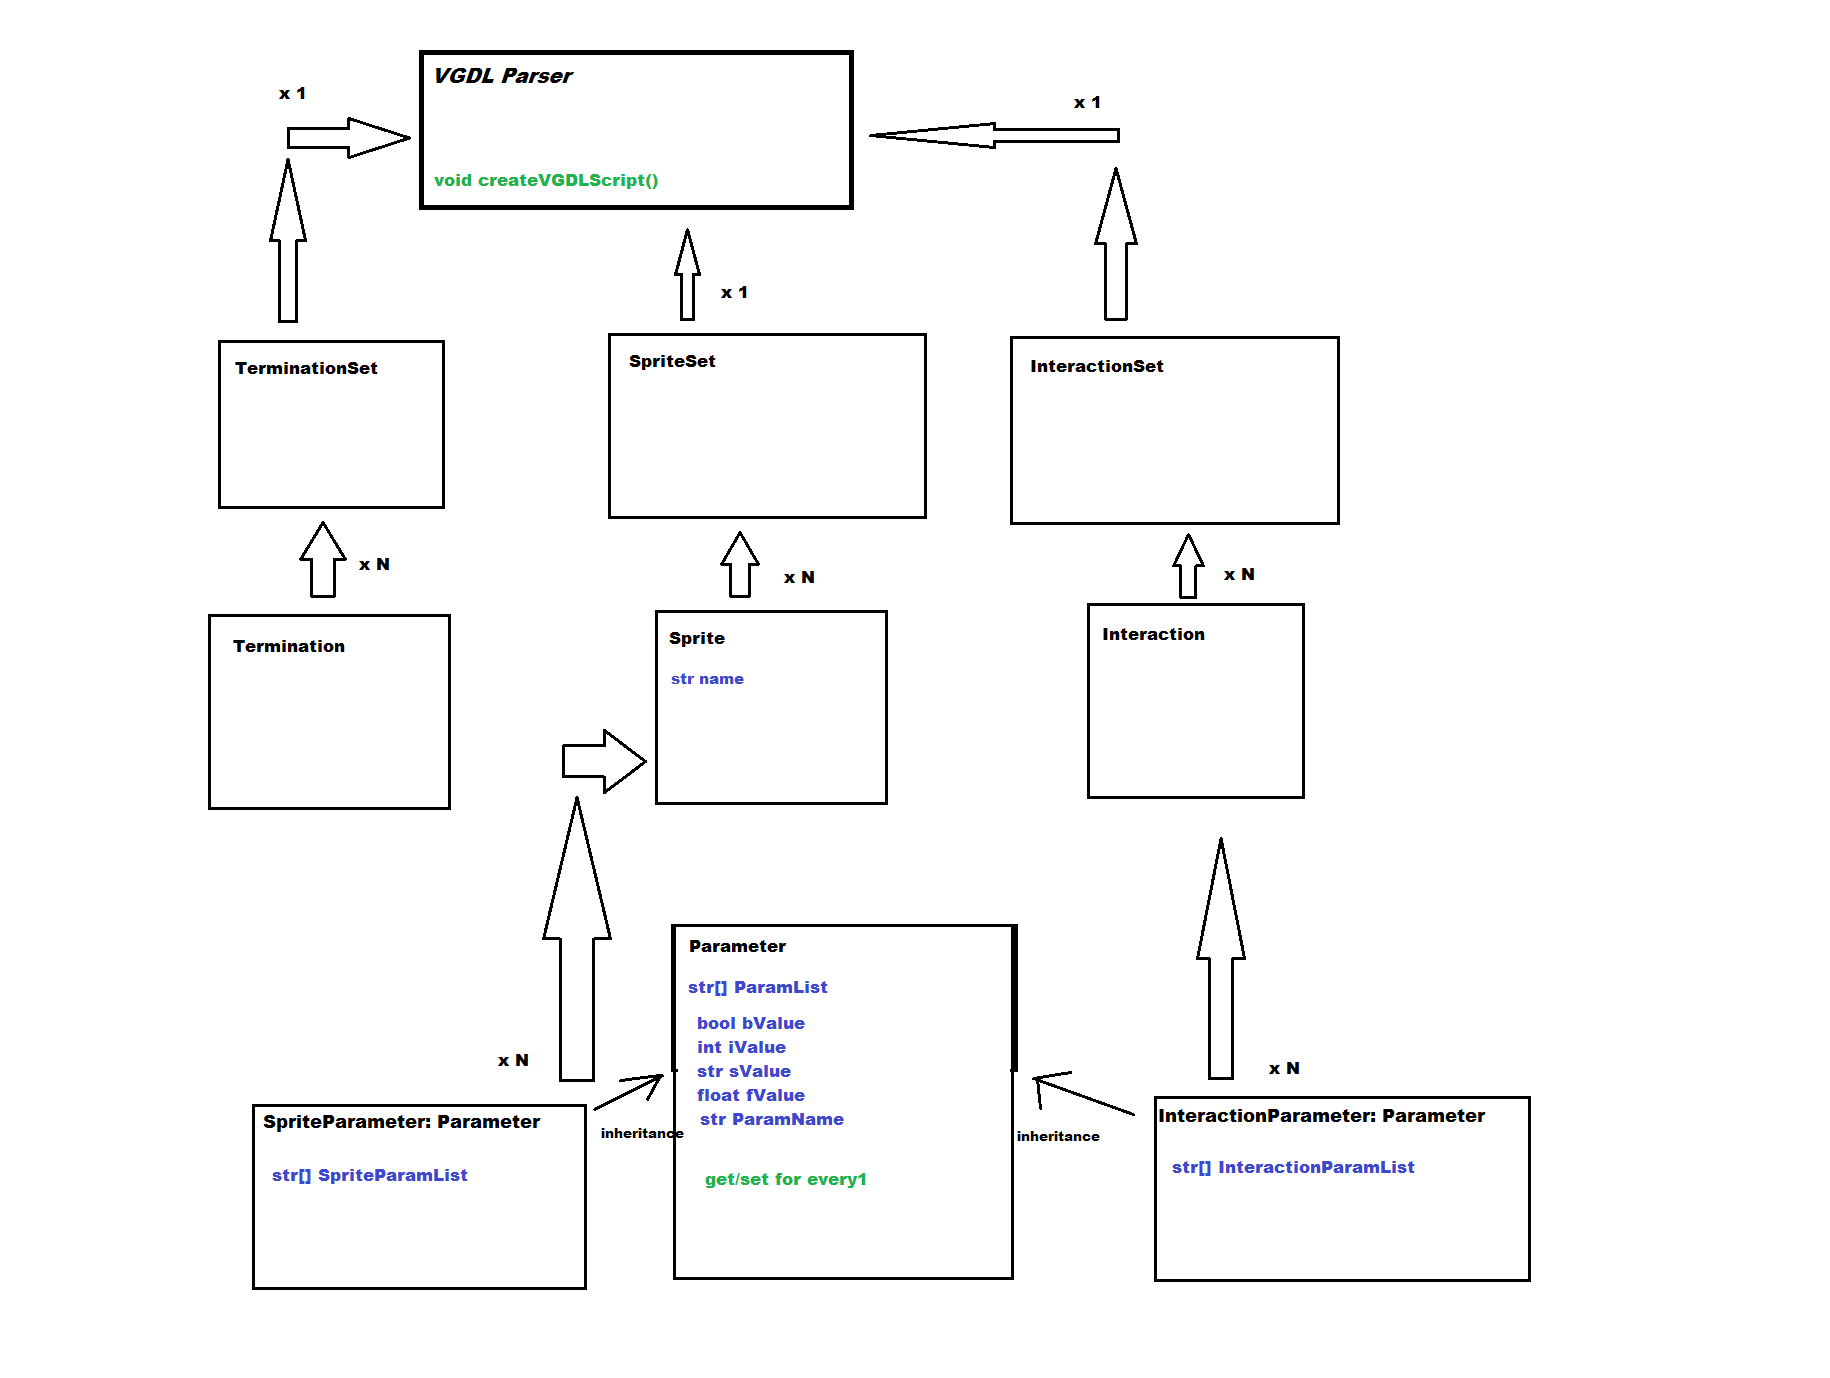
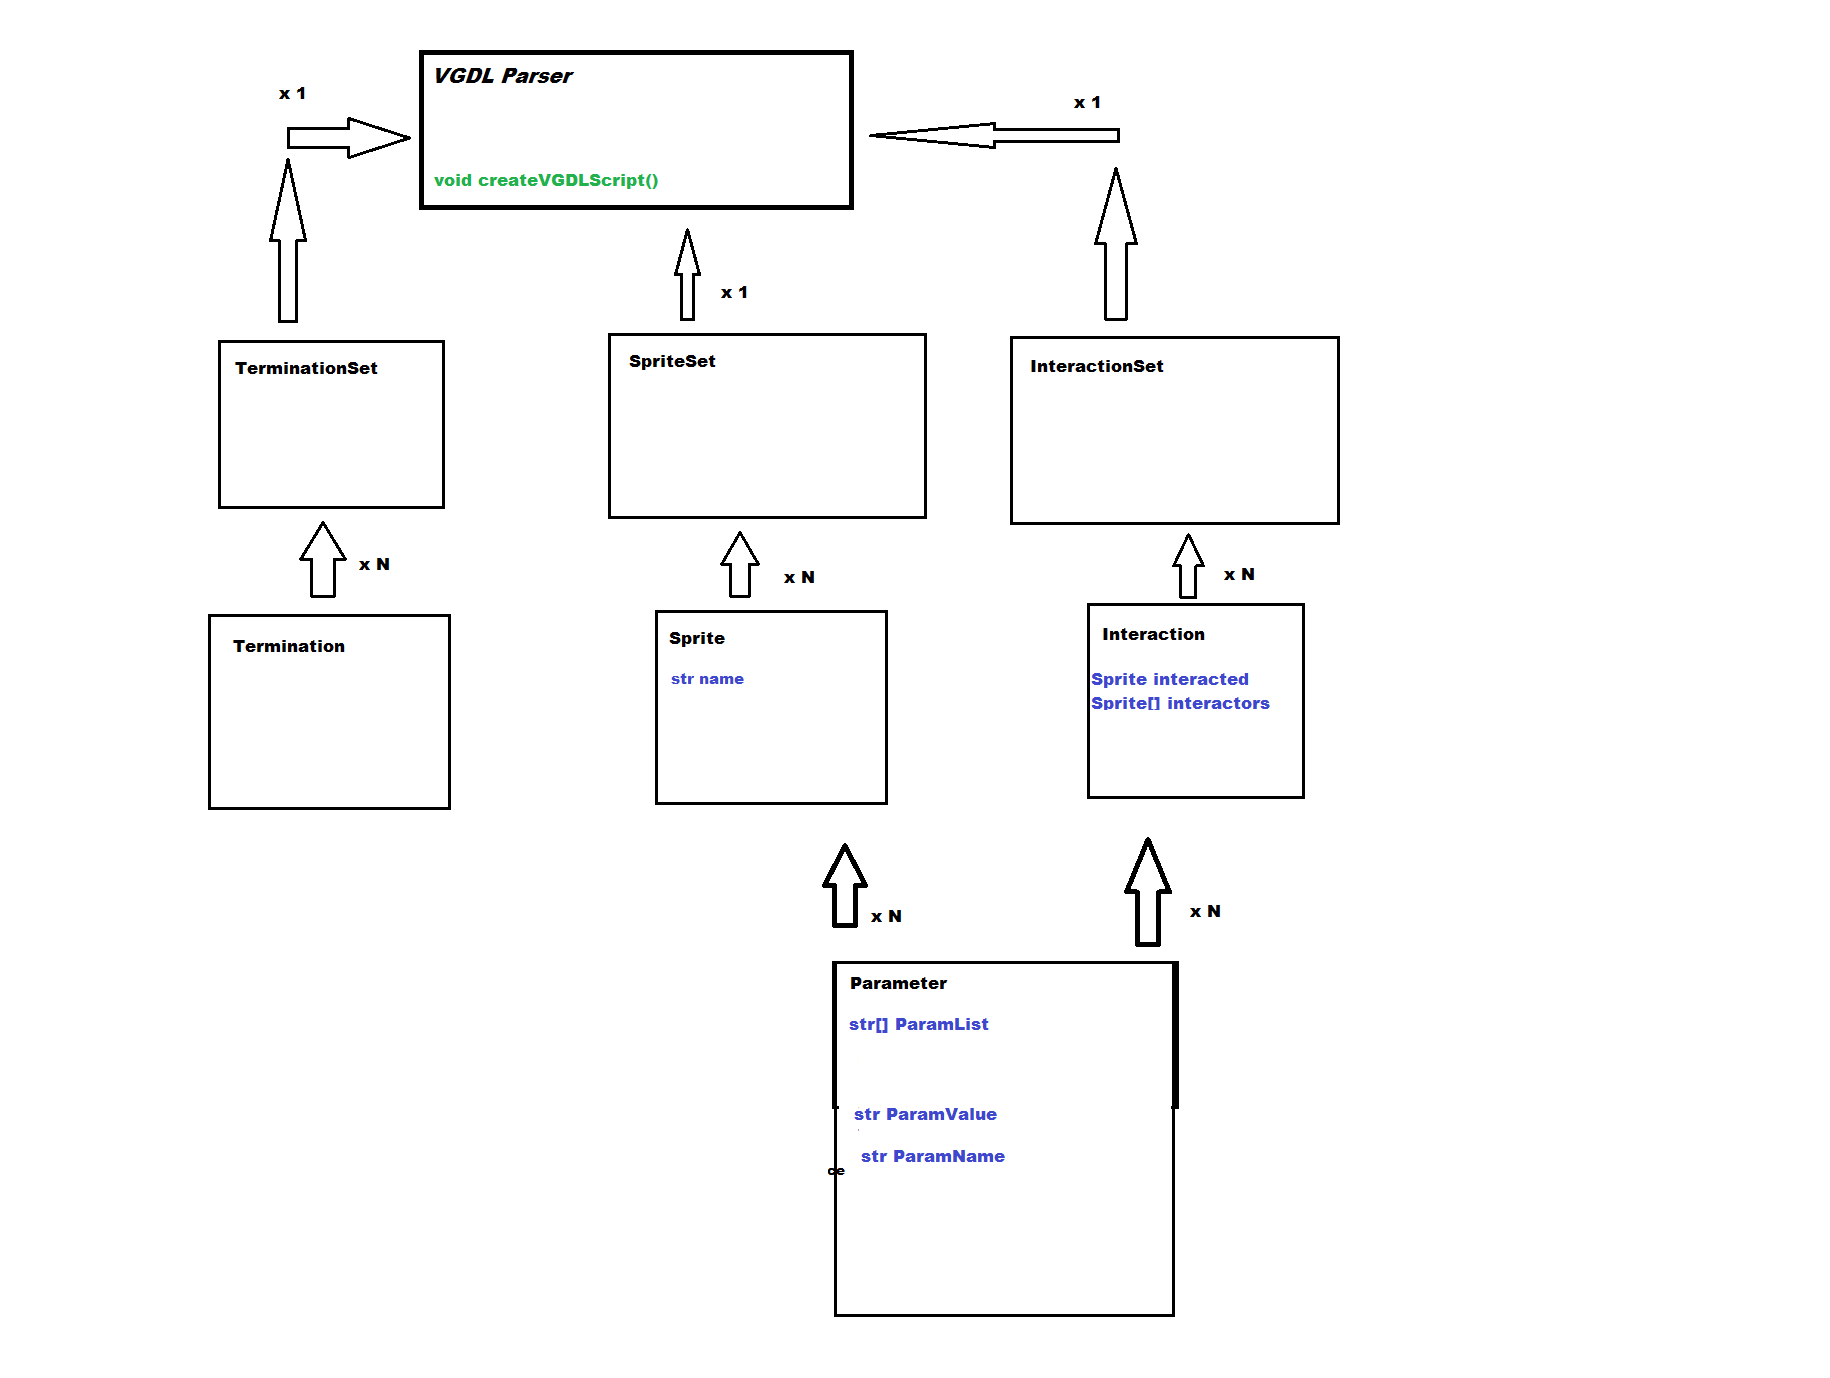
filled a little more the base classes
and added a breakdown of VGDL parameters and interaction types in a text
file

diff --git a/src/Sprite.cpp b/src/Sprite.cpp
@@ -20,7 +20,7 @@ Sprite::Sprite(std::string newName, std::string stype, bool hasParent = false, s
 	this->parent = parent;
 }
 
-Sprite::Sprite(std::string newName, std::string stype, std::vector<SpriteParameter> paramList, bool hasParent = false, std::string parent = "null")
+Sprite::Sprite(std::string newName, std::string stype, std::vector<Parameter> paramList, bool hasParent = false, std::string parent = "null")
 {
 	name = newName;
 	spriteType = stype;
@@ -54,13 +54,28 @@ void Sprite::setSpriteType(std::string newstype)
 	spriteType = newstype;
 }
 
-std::vector<SpriteParameter> Sprite::getSpriteParameters()
+std::vector<Parameter> Sprite::getSpriteParameters()
 {
 	return parameterList;
 }
 
-void Sprite::addParameter(SpriteParameter newParameter)
+void Sprite::addParameter(Parameter newParameter)
 {
 	parameterList.push_back(newParameter);
+}
+
+std::string Sprite::getParent()
+{
+	return parent;
+}
+
+void Sprite::setParent(std::string newParent)
+{
+	parent = newParent;
+}
+
+bool Sprite::spriteHasParent()
+{
+	return hasParent;
 }
 

diff --git a/src/Parameter.h b/src/Parameter.h
@@ -1,20 +1,21 @@
 #pragma once
 #include <string>
 
+//Generic parameter, can be used by any class. The paramaters it can be depends on the class that's calling them(Sprite, Interaction or Termination).
+
 class Parameter
 {
 public:
 	Parameter(std::string name, int value);
 	Parameter(std::string name, float value);
+	Parameter(std::string name, bool value);
 	Parameter(std::string name, std::string value);
 
 	~Parameter();
 
 private:
 	std::string parameterName;
-	int parameterIntValue;
-	float parameterFloatValue;
-	std::string parameterStrValue;//because the parameter may be a string, a float or an int...there has to be a better way to deal with this
-	int parameterType;//1=int, 2=float, 3=string
+	std::string parameterValue;//because the parameter may be a string, a float or an int, we simply cast them all to strings, since we'll only use them to create the script
+	int parameterType;//1=int, 2=float, 3=bool, 4=string
 };
 

diff --git a/src/Parameter.cpp b/src/Parameter.cpp
@@ -1,5 +1,5 @@
 #include "Parameter.h"
-
+#include "Manager.h"
 
 
 
@@ -7,22 +7,30 @@
 Parameter::Parameter(std::string name, int value)
 {
 	parameterName = name;
-	parameterIntValue = value;
+	parameterValue = Manager::toString(value);
 	parameterType = 1;
 }
 
 Parameter::Parameter(std::string name, float value)
 {
 	parameterName = name;
-	parameterFloatValue = value;
+	parameterValue = Manager::toString(value);
 	parameterType = 2;
+}
+
+Parameter::Parameter(std::string name, bool value)
+{
+	parameterName = name;
+	parameterValue = Manager::toString(value);
+	parameterType = 3;
+
 }
 
 Parameter::Parameter(std::string name, std::string value)
 {
 	parameterName = name;
-	parameterStrValue = value;
-	parameterType = 3;
+	parameterValue = value;
+	parameterType = 4;
 }
 
 Parameter::~Parameter()

diff --git a/src/Sprite.h b/src/Sprite.h
@@ -33,18 +33,22 @@ public:
 
 	std::vector<Parameter> getSpriteParameters();
 	void addParameter(Parameter newParameter);
+
+	std::string getParent();
+	void setParent(std::string newParent);
+
+	bool spriteHasParent();
 	
 
 private:
 	std::string name;
-	std::string parentName; //if there is any
 	std::string spriteType;//sprite type of this particular sprite
 	
 	bool hasParent;//true if sprite is part of a higher sprite class
 	std::string parent;
 
 
-	std::vector<SpriteParameter> parameterList;//one sprite can have a lot of parameters
+	std::vector<Parameter> parameterList;//one sprite can have a lot of parameters
 
 
 

diff --git a/src/InteractionSet.h b/src/InteractionSet.h
@@ -1,8 +1,20 @@
 #pragma once
+
+#include <vector>
+
 class InteractionSet
 {
 public:
 	InteractionSet();
 	~InteractionSet();
+
+	std::vector<std::string> getInteractionTypeList();
+	std::vector<std::string> getInteractionParametersList();
+
+
+private:
+	//std::vector<Interaction> interactionList;
+	std::vector<std::string> interactionTypeList = {};
+	std::vector<std::string> interactionParametersList = {};
 };
 

diff --git a/src/Manager.h b/src/Manager.h
@@ -1,0 +1,19 @@
+#pragma once
+
+#include <string>
+
+//The manager class will be used for miscellaneous functions, like transforming diferent variables into strings so they can be more easily placed in the VGDL script
+
+
+class Manager
+{
+public:
+	Manager();
+	~Manager();
+	
+	static std::string toString(int i);
+	static std::string toString(float f);
+	static std::string toString(bool b);
+
+};
+

diff --git a/src/Manager.cpp b/src/Manager.cpp
@@ -1,0 +1,30 @@
+#include "Manager.h"
+
+
+
+Manager::Manager()
+{
+}
+
+
+Manager::~Manager()
+{
+}
+
+std::string Manager::toString(int i)
+{
+	return std::to_string(i);
+}
+
+std::string Manager::toString(float f)
+{
+	return std::to_string(f);
+}
+
+std::string Manager::toString(bool b)
+{
+	if (b)
+		return "True";//VGDL reads True or False with capitals, look out for that
+
+	return "False";
+}

diff --git a/src/InteractionSet.cpp b/src/InteractionSet.cpp
@@ -10,3 +10,13 @@ InteractionSet::InteractionSet()
 InteractionSet::~InteractionSet()
 {
 }
+
+std::vector<std::string> InteractionSet::getInteractionTypeList()
+{
+	return interactionTypeList;
+}
+
+std::vector<std::string> InteractionSet::getInteractionParametersList()
+{
+	return interactionParametersList;
+}
